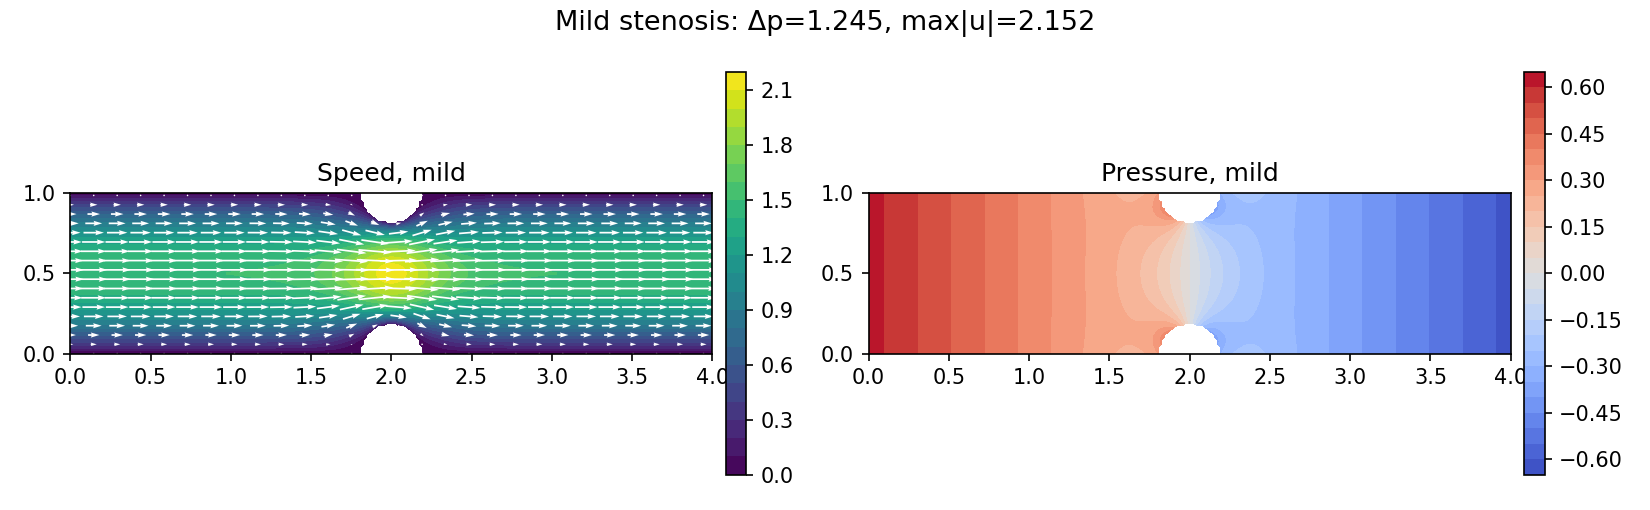
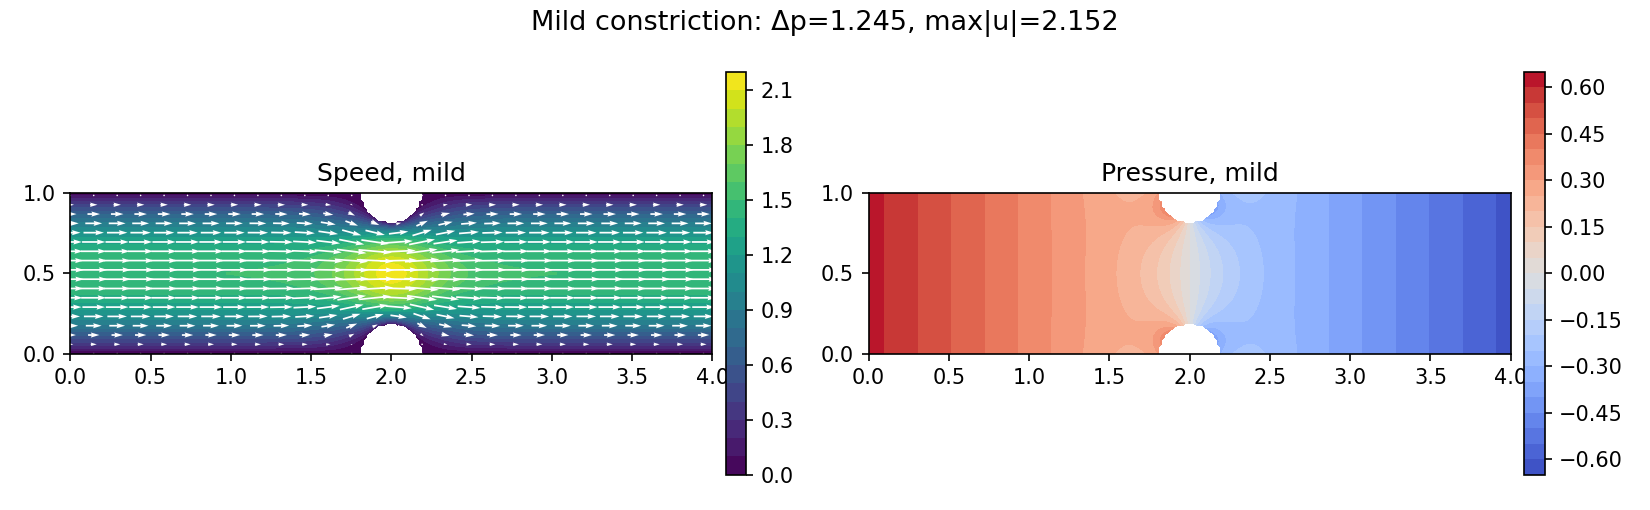
fix convergence 1

Changed region(s): [[0.3091, 0.0, 0.68, 0.0588]]

diff --git a/run_constricted_channel_study.py b/run_constricted_channel_study.py
@@ -10,7 +10,7 @@ import matplotlib.tri as mtri
 import numpy as np
 
 from cavity_solution_sampling import configure_cache_dirs
-from generate_stenosis_mesh import (
+from generate_constricted_channel_mesh import (
     CHANNEL_HEIGHT,
     CHANNEL_LENGTH,
     INLET_TAG,
@@ -109,7 +109,7 @@ def build_stokes_problem(domain, facet_tags, variant_name: str):
         a,
         L,
         bcs=bcs,
-        petsc_options_prefix=f"stenosis_{variant_name}_",
+        petsc_options_prefix=f"constricted_channel_{variant_name}_",
         petsc_options={
             "ksp_type": "preonly",
             "pc_type": "lu",
@@ -286,7 +286,7 @@ def plot_fields(sample: dict[str, np.ndarray], result: StudyResult):
     fig.colorbar(pressure_contour, ax=pressure_ax, fraction=0.046, pad=0.02)
 
     fig.suptitle(
-        f"{result.variant.capitalize()} stenosis: Δp={result.pressure_drop:.3f}, max|u|={result.max_speed:.3f}",
+        f"{result.variant.capitalize()} constriction: Δp={result.pressure_drop:.3f}, max|u|={result.max_speed:.3f}",
         fontsize=13,
     )
     fig.tight_layout()
@@ -315,8 +315,8 @@ def plot_comparison(results: list[StudyResult]):
 
 def write_outputs(results: list[StudyResult]):
     RESULTS_DIR.mkdir(parents=True, exist_ok=True)
-    summary_path = RESULTS_DIR / "stenosis_summary.json"
-    csv_path = RESULTS_DIR / "stenosis_summary.csv"
+    summary_path = RESULTS_DIR / "constricted_channel_summary.json"
+    csv_path = RESULTS_DIR / "constricted_channel_summary.csv"
 
     with csv_path.open("w", encoding="utf-8", newline="") as stream:
         writer = csv.DictWriter(stream, fieldnames=list(asdict(results[0]).keys()))
@@ -325,7 +325,7 @@ def write_outputs(results: list[StudyResult]):
 
     better_variant = min(results, key=lambda result: result.pressure_drop)
     summary = {
-        "scenario": "steady low-Re channel flow through a symmetric stenosis",
+        "scenario": "steady low-Re channel flow through a symmetric channel constriction",
         "mesh_generation": "Gmsh Python API with gmsh.model.occ",
         "mesh_import": "dolfinx.io.gmsh.read_from_msh",
         "mesh_size_control": "variant-specific global mesh size with local threshold refinement near tagged walls",
@@ -341,9 +341,9 @@ def write_outputs(results: list[StudyResult]):
             "better_variant": better_variant.variant,
             "reason": "Lower pressure drop at the same inlet profile indicates lower hydraulic resistance.",
             "physical_reading": [
-                "The severe stenosis creates a narrower throat, accelerating the flow and increasing viscous losses.",
+                "The severe constriction creates a narrower throat, accelerating the flow and increasing viscous losses.",
                 "Pressure gradients concentrate across the throat, while high-speed regions form through the constriction.",
-                "The mild stenosis performs better for the pressure-drop metric because the channel cross-section remains less restrictive.",
+                "The mild constriction performs better for the pressure-drop metric because the channel cross-section remains less restrictive.",
             ],
         },
     }

diff --git a/generate_constricted_channel_mesh.py b/generate_constricted_channel_mesh.py
@@ -11,7 +11,7 @@ WALL_TAG = 3
 
 
 @dataclass(frozen=True)
-class StenosisVariant:
+class ChannelVariant:
     name: str
     notch_radius: float
     mesh_size: float
@@ -22,17 +22,17 @@ CHANNEL_HEIGHT = 1.0
 STENOSIS_CENTER_X = 2.0
 
 VARIANTS = {
-    "mild": StenosisVariant("mild", notch_radius=0.18, mesh_size=0.07),
-    "severe": StenosisVariant("severe", notch_radius=0.30, mesh_size=0.06),
+    "mild": ChannelVariant("mild", notch_radius=0.18, mesh_size=0.07),
+    "severe": ChannelVariant("severe", notch_radius=0.30, mesh_size=0.06),
 }
 
 
-def build_stenosis_mesh(mesh_file: Path, variant: StenosisVariant) -> Path:
+def build_constricted_channel_mesh(mesh_file: Path, variant: ChannelVariant) -> Path:
     import gmsh
 
     gmsh.initialize()
     gmsh.option.setNumber("General.Terminal", 0)
-    gmsh.model.add(f"stenosis_{variant.name}")
+    gmsh.model.add(f"constricted_channel_{variant.name}")
 
     rectangle = gmsh.model.occ.addRectangle(0.0, 0.0, 0.0, CHANNEL_LENGTH, CHANNEL_HEIGHT)
     bottom_notch = gmsh.model.occ.addDisk(
@@ -100,7 +100,7 @@ def build_stenosis_mesh(mesh_file: Path, variant: StenosisVariant) -> Path:
 
 def generate_all_meshes(mesh_dir: Path) -> dict[str, Path]:
     return {
-        name: build_stenosis_mesh(mesh_dir / f"stenosis_{name}.msh", variant)
+        name: build_constricted_channel_mesh(mesh_dir / f"constricted_channel_{name}.msh", variant)
         for name, variant in VARIANTS.items()
     }
 
